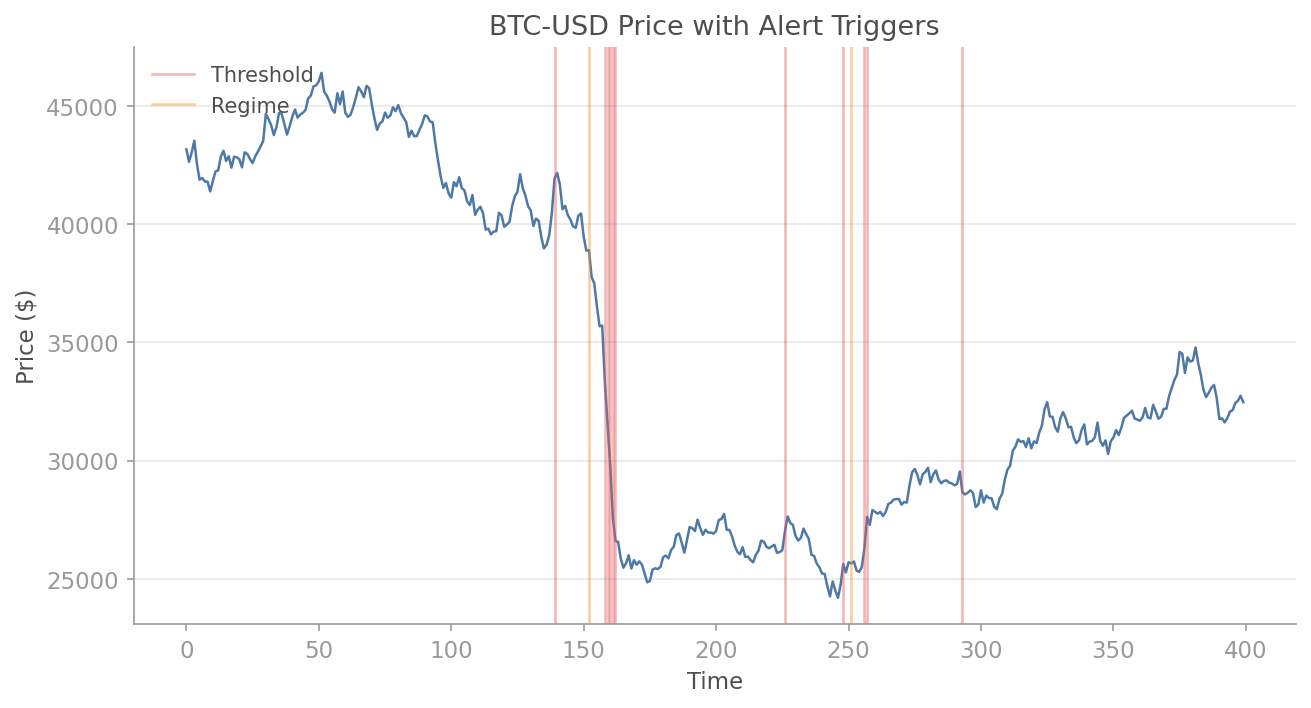
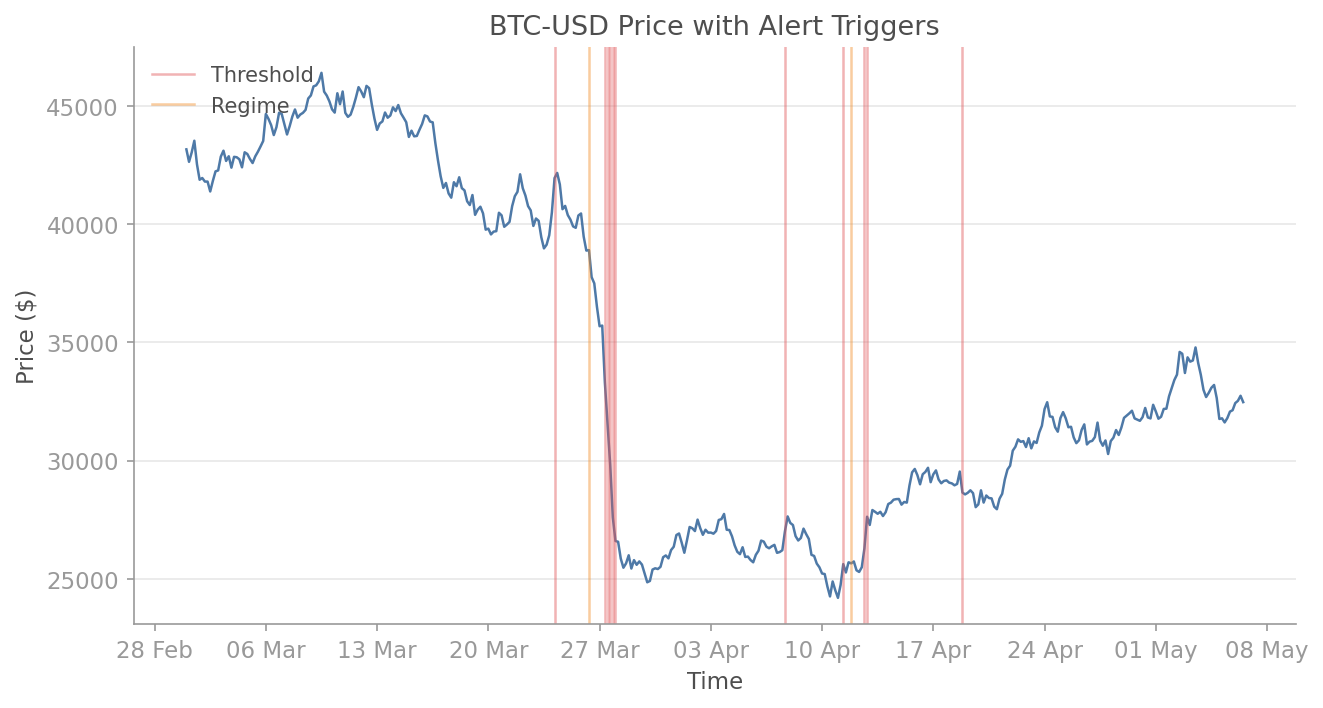
fix: comprehensive chart quality audit — Few palette, proper labels, diversification
Chart fixes (v1.1/v1.3/v1.4):

- risk_waterfall: use standalone CVaRs so diversification benefit (-0.0167) is visible
- ensemble_agreement: replace RdYlGn colourmap with Few blue-white-orange diverging
- kelly_drawdown_control: switch to linear scale, stagger labels to prevent overlap
- streaming_latency: use Few primary blue for histogram bars and percentile lines
- regime_transition_heatmap: generate missing file with human-readable regime names
- regime_transitions: relabel 0/1/2 as Calm/Transitional/Crisis
- alert_timeline: use proper date timestamps instead of raw indices
- alert_threshold_monitor: use proper date timestamps
- online_regime_evolution: use proper date timestamps
- online_regime_transitions: use proper date timestamps
- online_detection_lag: use proper date timestamps
- generate_allocation_charts: fix ruff lint errors (unused imports, unsorted imports)

diff --git a/examples/online_regime_charts.py b/examples/online_regime_charts.py
@@ -7,6 +7,7 @@ from pathlib import Path
 
 import matplotlib.pyplot as plt
 import numpy as np
+import pandas as pd
 
 sys.path.insert(0, str(Path(__file__).resolve().parent.parent / "src"))
 
@@ -50,7 +51,7 @@ def chart_regime_evolution() -> None:
     """Regime posterior probabilities evolving over time."""
     rng = np.random.default_rng(42)
     true_regimes, returns = _simulate_regime_data(300)
-    timestamps = np.arange(len(returns), dtype=float)
+    timestamps = pd.date_range("2024-01-01", periods=len(returns), freq="1d")
 
     # Simulate posterior probabilities (smoothed one-hot with noise)
     probs = np.zeros((len(returns), 3))
@@ -70,6 +71,9 @@ def chart_regime_evolution() -> None:
     probs /= probs.sum(axis=1, keepdims=True)
 
     fig, ax = plot_regime_evolution(timestamps, probs)
+    import matplotlib.dates as mdates
+    ax.xaxis.set_major_formatter(mdates.DateFormatter("%b %Y"))
+    ax.xaxis.set_major_locator(mdates.MonthLocator(interval=2))
     fig.savefig(DOCS_IMAGES / "online_regime_evolution.png", bbox_inches="tight")
     plt.close(fig)
     print("✓ online_regime_evolution.png")
@@ -78,9 +82,12 @@ def chart_regime_evolution() -> None:
 def chart_regime_transition_live() -> None:
     """Return series with regime background shading and change points."""
     true_regimes, returns = _simulate_regime_data(400, seed=77)
-    timestamps = np.arange(len(returns))
+    timestamps = pd.date_range("2024-01-01", periods=len(returns), freq="1d")
 
     fig, ax = plot_regime_transition_live(timestamps, returns, true_regimes)
+    import matplotlib.dates as mdates
+    ax.xaxis.set_major_formatter(mdates.DateFormatter("%b %Y"))
+    ax.xaxis.set_major_locator(mdates.MonthLocator(interval=2))
     fig.savefig(DOCS_IMAGES / "online_regime_transitions.png", bbox_inches="tight")
     plt.close(fig)
     print("✓ online_regime_transitions.png")
@@ -89,7 +96,7 @@ def chart_regime_transition_live() -> None:
 def chart_detection_lag() -> None:
     """Online vs batch regime detection comparison."""
     true_regimes, returns = _simulate_regime_data(300, seed=55)
-    timestamps = np.arange(len(returns))
+    timestamps = pd.date_range("2024-01-01", periods=len(returns), freq="1d")
 
     # Batch detects perfectly (same as truth)
     batch = true_regimes.copy()
@@ -104,6 +111,9 @@ def chart_detection_lag() -> None:
         online[t:end] = true_regimes[t - 1]  # Keeps old regime during lag
 
     fig, ax = plot_detection_lag(timestamps, true_regimes, online, batch)
+    import matplotlib.dates as mdates
+    ax.xaxis.set_major_formatter(mdates.DateFormatter("%b %Y"))
+    ax.xaxis.set_major_locator(mdates.MonthLocator(interval=2))
     fig.savefig(DOCS_IMAGES / "online_detection_lag.png", bbox_inches="tight")
     plt.close(fig)
     print("✓ online_detection_lag.png")

diff --git a/examples/generate_allocation_charts.py b/examples/generate_allocation_charts.py
@@ -13,33 +13,38 @@ from scipy import stats
 # Ensure src is importable
 sys.path.insert(0, os.path.join(os.path.dirname(__file__), "..", "src"))
 
-from quantlite.portfolio.tail_risk_parity import (
-    cvar_parity_weights, vol_parity_weights, es_parity_weights, compare_parity_methods,
-)
-from quantlite.portfolio.regime_bl import regime_conditional_bl, black_litterman_posterior
+import matplotlib
+
 from quantlite.portfolio.dynamic_kelly import (
-    fractional_kelly, rolling_kelly, kelly_with_drawdown_control,
+    fractional_kelly,
+    kelly_with_drawdown_control,
+    rolling_kelly,
 )
-from quantlite.portfolio.ensemble import ensemble_allocate, consensus_portfolio
-from quantlite.portfolio.walkforward import walk_forward, sharpe_score
+from quantlite.portfolio.ensemble import ensemble_allocate
 from quantlite.portfolio.optimisation import risk_parity_weights
+from quantlite.portfolio.regime_bl import regime_conditional_bl
+from quantlite.portfolio.tail_risk_parity import (
+    cvar_parity_weights,
+    es_parity_weights,
+    vol_parity_weights,
+)
+from quantlite.portfolio.walkforward import walk_forward
 from quantlite.viz.allocation import (
-    plot_risk_contribution_comparison,
-    plot_tail_parity_weights,
-    plot_tail_risk_budget,
-    plot_regime_bl_weights,
-    plot_view_confidence,
     plot_bl_frontier,
+    plot_ensemble_agreement,
+    plot_ensemble_weights,
     plot_kelly_drawdown_control,
     plot_kelly_fraction_evolution,
     plot_kelly_risk_reward,
-    plot_ensemble_agreement,
-    plot_ensemble_weights,
-    plot_walkforward_folds,
+    plot_regime_bl_weights,
+    plot_risk_contribution_comparison,
+    plot_tail_parity_weights,
+    plot_tail_risk_budget,
+    plot_view_confidence,
     plot_walkforward_equity,
+    plot_walkforward_folds,
 )
 
-import matplotlib
 matplotlib.use("Agg")
 
 IMG_DIR = os.path.join(os.path.dirname(__file__), "..", "docs", "images")
@@ -174,7 +179,7 @@ def main():
 
     print("Generating ensemble charts...")
     # Ensemble — use 4+ strategies for an informative agreement matrix
-    from quantlite.portfolio.optimisation import hrp_weights, black_litterman
+    from quantlite.portfolio.optimisation import black_litterman, hrp_weights
 
     hrp = hrp_weights(returns_df)
     rp = risk_parity_weights(returns_df)
@@ -190,7 +195,7 @@ def main():
                   for c in returns_df.columns}
 
     # Kelly (fractional)
-    kelly_res = fractional_kelly(returns_df.mean(axis=1).values, fraction_of_kelly=0.5)
+    fractional_kelly(returns_df.mean(axis=1).values, fraction_of_kelly=0.5)
     # Distribute Kelly across assets by Sharpe
     sharpes = returns_df.mean() / returns_df.std()
     sharpes_pos = sharpes.clip(lower=0)

diff --git a/src/quantlite/viz/allocation.py b/src/quantlite/viz/allocation.py
@@ -353,17 +353,31 @@ def plot_kelly_drawdown_control(
     apply_few_theme()
     fig, ax = plt.subplots(figsize=(12, 6))
 
+    # Collect end values for staggered label placement
+    end_values = []
     for i, (name, equity) in enumerate(equity_curves.items()):
         colour = _COLOURS[i % len(_COLOURS)]
         ax.plot(equity, color=colour, linewidth=1.5)
-        # Direct label at end
-        ax.text(len(equity) - 1, equity[-1], f"  {name}",
+        end_values.append((equity[-1], name, colour, len(equity) - 1))
+
+    # Stagger labels so they don't overlap
+    end_values.sort(key=lambda x: x[0])
+    min_gap = (max(v[0] for v in end_values) - min(v[0] for v in end_values)) * 0.05
+    if min_gap < 0.01:
+        min_gap = 0.05
+    placed: list[float] = []
+    for val, name, colour, x_pos in end_values:
+        y = val
+        for yp in placed:
+            if abs(y - yp) < min_gap:
+                y = yp + min_gap
+        placed.append(y)
+        ax.text(x_pos, y, f"  {name}",
                 color=colour, fontsize=10, va="center")
 
     ax.set_xlabel("Period")
-    ax.set_ylabel("Portfolio Value")
+    ax.set_ylabel("Portfolio Value ($)")
     ax.set_title(title)
-    ax.set_yscale("log")
 
     return _save_or_show(fig, save_path)
 
@@ -469,10 +483,16 @@ def plot_ensemble_agreement(
         Matplotlib Figure.
     """
     apply_few_theme()
-    fig, ax = plt.subplots(figsize=(8, 6))
+    fig, ax = plt.subplots(figsize=(10, 8))
 
     n = len(agreement_matrix)
-    im = ax.imshow(agreement_matrix.values, cmap="RdYlGn", vmin=-1, vmax=1, aspect="auto")
+    # Custom diverging colourmap using Few palette (blue-white-orange)
+    from matplotlib.colors import LinearSegmentedColormap
+    _few_div = LinearSegmentedColormap.from_list(
+        "few_div",
+        [FEW_PALETTE["primary"], "#FFFFFF", FEW_PALETTE["secondary"]],
+    )
+    im = ax.imshow(agreement_matrix.values, cmap=_few_div, vmin=-1, vmax=1, aspect="auto")
 
     ax.set_xticks(range(n))
     ax.set_yticks(range(n))

diff --git a/examples/alert_charts.py b/examples/alert_charts.py
@@ -7,6 +7,7 @@ from pathlib import Path
 
 import matplotlib.pyplot as plt
 import numpy as np
+import pandas as pd
 
 sys.path.insert(0, str(Path(__file__).resolve().parent.parent / "src"))
 
@@ -28,7 +29,7 @@ def chart_alert_timeline() -> None:
     returns[150:170] = rng.normal(-0.02, 0.025, 20)
     returns[250:260] = rng.normal(0.015, 0.02, 10)
     prices = 43_000 * np.exp(np.cumsum(returns))
-    timestamps = np.arange(n)
+    timestamps = pd.date_range("2024-03-01", periods=n, freq="4h")
 
     # Alerts at large moves
     alert_indices = []
@@ -47,6 +48,9 @@ def chart_alert_timeline() -> None:
         np.array(alert_indices), alert_types,
         symbol="BTC-USD",
     )
+    import matplotlib.dates as mdates
+    ax.xaxis.set_major_formatter(mdates.DateFormatter("%d %b"))
+    ax.xaxis.set_major_locator(mdates.DayLocator(interval=7))
     fig.savefig(DOCS_IMAGES / "alert_timeline.png", bbox_inches="tight")
     plt.close(fig)
     print("✓ alert_timeline.png")
@@ -61,7 +65,7 @@ def chart_threshold_monitor() -> None:
     returns[100:140] = rng.normal(0, 0.035, 40)
     # Rolling 20-day volatility
     vol = np.array([np.std(returns[max(0, i - 20):i + 1]) for i in range(n)])
-    timestamps = np.arange(n)
+    timestamps = pd.date_range("2024-03-01", periods=n, freq="1d")
 
     fig, ax = plot_threshold_monitor(
         timestamps, vol,
@@ -69,6 +73,9 @@ def chart_threshold_monitor() -> None:
         lower_threshold=0.005,
         metric_name="20-day Rolling Volatility",
     )
+    import matplotlib.dates as mdates
+    ax.xaxis.set_major_formatter(mdates.DateFormatter("%b %Y"))
+    ax.xaxis.set_major_locator(mdates.MonthLocator(interval=2))
     fig.savefig(DOCS_IMAGES / "alert_threshold_monitor.png", bbox_inches="tight")
     plt.close(fig)
     print("✓ alert_threshold_monitor.png")

diff --git a/examples/generate_explain_charts.py b/examples/generate_explain_charts.py
@@ -70,8 +70,18 @@ def main():
         returns_df, weights, regime_labels=regime_labels
     )
 
+    # Use standalone (undiversified) CVaRs for the waterfall so the
+    # diversification benefit is visible as a negative bar.
+    standalone_cvar = {}
+    for name in returns_df.columns:
+        w = weights.get(name, 0.0)
+        asset_ret = returns_df[name].values * w
+        threshold = np.percentile(asset_ret, 5)
+        tail = asset_ret[asset_ret <= threshold]
+        standalone_cvar[name] = -float(np.mean(tail))
+
     plot_risk_waterfall(
-        attr.component_cvar, attr.total_cvar,
+        standalone_cvar, attr.total_cvar,
         save_path=os.path.join(IMG_DIR, "risk_waterfall.png"),
     )
     print("  -> risk_waterfall.png")
@@ -100,11 +110,21 @@ def main():
     )
     print("  -> regime_summary.png")
 
+    # Rename regime labels for readability
+    regime_names = {"0": "Calm", "1": "Transitional", "2": "Crisis"}
+    tm = narrative.transition_matrix.rename(index=regime_names, columns=regime_names)
+
     plot_regime_transition_matrix(
-        narrative.transition_matrix,
+        tm,
         save_path=os.path.join(IMG_DIR, "regime_transitions.png"),
     )
     print("  -> regime_transitions.png")
+
+    plot_regime_transition_matrix(
+        tm,
+        save_path=os.path.join(IMG_DIR, "regime_transition_heatmap.png"),
+    )
+    print("  -> regime_transition_heatmap.png")
 
     # --- What-If Analysis ---
     print("Generating what-if charts...")

diff --git a/src/quantlite/viz/explain.py b/src/quantlite/viz/explain.py
@@ -361,12 +361,17 @@ def plot_regime_transition_matrix(
     Returns:
         Matplotlib Figure.
     """
-    fig, ax = few_figure(figsize=(8, 6))
+    fig, ax = few_figure(figsize=(10, 8))
 
     data = transition_matrix.values
     n = data.shape[0]
 
-    ax.imshow(data, cmap="Blues", vmin=0, vmax=1, aspect="auto")
+    # Custom colourmap from white to Few primary blue
+    from matplotlib.colors import LinearSegmentedColormap
+    _few_seq = LinearSegmentedColormap.from_list(
+        "few_seq", ["#FFFFFF", FEW_PALETTE["primary"]], N=256,
+    )
+    ax.imshow(data, cmap=_few_seq, vmin=0, vmax=1, aspect="auto")
 
     # Annotate cells
     for i in range(n):

diff --git a/src/quantlite/viz/streaming.py b/src/quantlite/viz/streaming.py
@@ -149,13 +149,13 @@ def plot_stream_latency(
     ax.hist(
         latencies_ms,
         bins=60,
-        color=FEW_PALETTE["neutral"],
+        color=FEW_PALETTE["primary"],
         edgecolor=FEW_PALETTE["bg"],
         linewidth=0.5,
         alpha=0.85,
     )
 
-    colours = [FEW_PALETTE["positive"], FEW_PALETTE["secondary"], FEW_PALETTE["negative"]]
+    colours = [FEW_PALETTE["primary"], FEW_PALETTE["secondary"], FEW_PALETTE["negative"]]
     for i, p in enumerate(percentiles):
         val = float(np.percentile(latencies_ms, p))
         c = colours[i % len(colours)]
